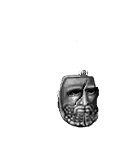
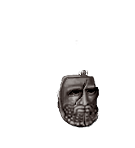
adds many new helms nerf gladiator attachments and southern armgaurds

Changed region(s): [[0.4148, 0.4865, 0.7111, 0.8649]]

diff --git a/make_legend_armor.py b/make_legend_armor.py
@@ -572,7 +572,7 @@ layers = [
     "desc" :  "A padded shirt fashioned from slightly thinner and lighter leather than that used in the north", \
     "adesc" : "Covered in a padded shirt"
 },
-{"name": "legend_southern_arm_guards",                "layer": "plate", "min": 1, "max": 1, "value" : 300, "con" : 30, "stam" : -26, "impactSound" : "plate", "invSound" : "leather", "brush" : "southern_arm_gaurds",\
+{"name": "legend_southern_arm_guards",                "layer": "plate", "min": 1, "max": 1, "value" : 300, "con" : 30, "stam" : -2, "impactSound" : "plate", "invSound" : "leather", "brush" : "southern_arm_gaurds",\
     "title" :  "Southern arm gaurds", \
     "desc" :  "Leather arm gaurds worn by southern assassins", \
     "adesc" : "has leathered arm gaurds"
